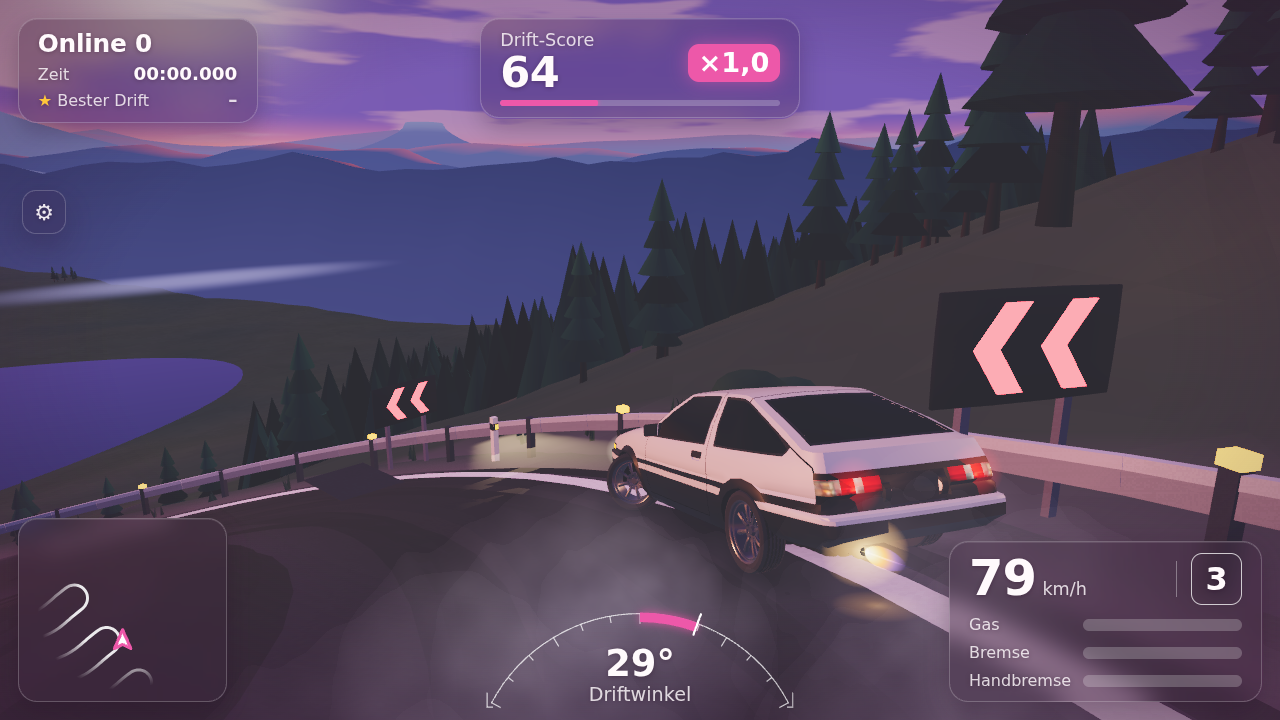
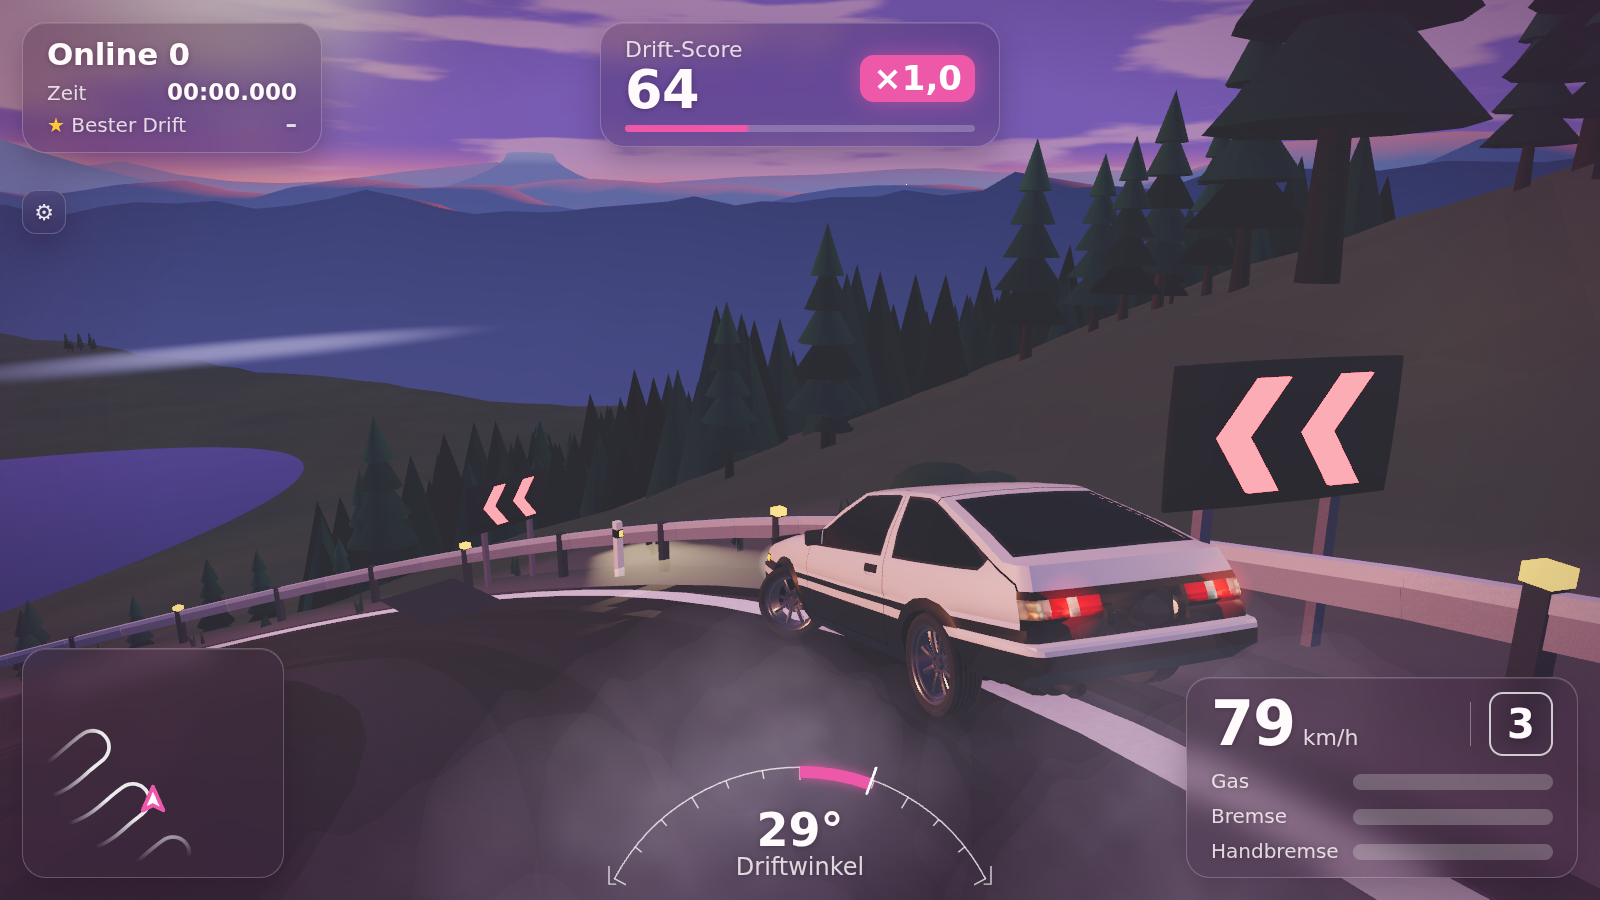
AE86 touge pictures in the requested sizes (tal 1600x900 with a held pop, tal phone, kehre 1600x900); rear lamp halos a little bigger

diff --git a/game/view/carfx.js b/game/view/carfx.js
@@ -202,7 +202,7 @@ export function carFx(car, spec = {}, { lite = false, listen = typeof window !==
   const haloMat = (c, k) => new THREE.SpriteMaterial({ name: 'fx_halo', map: glowTexture(), color: new THREE.Color(c).multiplyScalar(k), transparent: true, blending: THREE.AdditiveBlending, depthWrite: false, toneMapped: false });
   const rearHaloMat = haloMat(0xff2a18, 0.9), frontHaloMat = haloMat(0xfff0d8, 0.7);
   const halos = [];
-  for (const [re, mat, out, k] of [[/^lamp_rear_/i, rearHaloMat, -1, 0.5], [/^lamp_front_/i, frontHaloMat, 1, 0.55]]) {
+  for (const [re, mat, out, k] of [[/^lamp_rear_/i, rearHaloMat, -1, 0.62], [/^lamp_front_/i, frontHaloMat, 1, 0.55]]) {
     for (const l of lampCentres(re)) {
       const h = new THREE.Sprite(mat); h.position.copy(l.at).add(new THREE.Vector3(0, 0, out * 0.05)); h.scale.setScalar(k * 0.75);   // a fixed soft spot (35 to 40 cm), not the lamp's whole width
       h.userData.base = h.scale.x; h.userData.rear = out < 0; halos.push(h);
